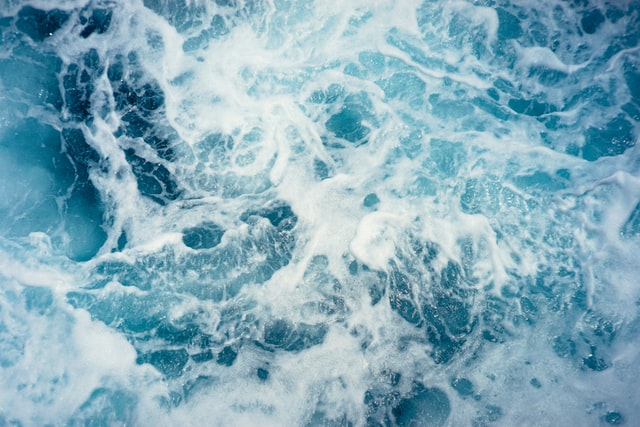
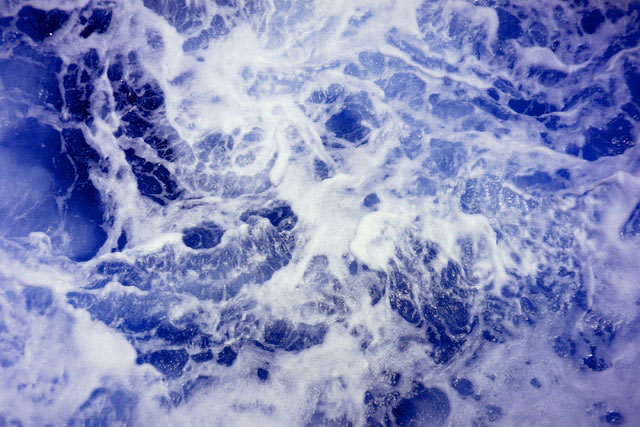
Repainted theme

diff --git a/index.css b/index.css
@@ -1,8 +1,8 @@
 :root {
  --main-color: blue;
  --main-color-yell: #f8c008;
- --main-color-prpl: #ca70d8;
- --main-color-light-prpl: #FDF2FF;
+ --main-color-prpl: rgb(102 86 219);
+ --main-color-light-prpl: #f8f2ff;
 
  --main-text-color: #000;
  --main-text-gray: #e3e3e3;
@@ -23,6 +23,8 @@
  --shadow-main: rgba(0, 0, 0, 0.06) 0px 2px 7px;
  --shadow-main_2:   rgba(0, 0, 0, 0.10) 0px 4px 8px;
  --shadow-main_3:   rgba(0, 0, 0, 0.12) 0px 8px 10px;
+
+ --main-gradient_1: linear-gradient( 100deg,  rgba(116,18,203,1) 11.2%, rgba(230,46,131,1) 91.2% );
 }
 
 body,
@@ -231,7 +233,7 @@ ul.sc_icons {
 /* Header block styles */
 
 .main-header {
- background-color: var(--main-color-prpl);
+ background: var(--main-gradient_1);
 }
 
 .hd-blocks {
@@ -289,7 +291,6 @@ ul.sc_icons {
  display: flex;
  align-items: center;
  justify-content: center;
- background-color: rgba(255, 255, 255, 0.144);
 }
 
 .hd-image img {
@@ -348,7 +349,7 @@ ul.sc_icons {
 }
 
 .vb_player .filter {
- opacity: 0.75;
+ opacity: 0.45;
  transition: var(--main-anim);
  background-color: var(--main-color-prpl);
 }
@@ -393,7 +394,7 @@ ul.sc_icons {
 }
 
 .vb_player:hover .filter {
- opacity: 0.65;
+ opacity: 0.55;
 }
 
 .vb_player:hover .play {
@@ -474,7 +475,7 @@ ul.sc_icons {
  left: 0;
  width: 100%;
  height: 4px;
- background-color: var(--main-color-prpl);
+ background: var(--main-gradient_1);
 }
 
 .def-clickable dt.opened + dd {
@@ -764,8 +765,8 @@ ul.sc_icons {
 }
 
 .rb_block .photo {
- height: 70px;
- width: 70px;
+ height: 60px;
+ width: 60px;
  overflow: hidden;
  border-radius: var(--max-br-radius);
  background-color: rgb(236, 230, 230);
@@ -773,8 +774,8 @@ ul.sc_icons {
 }
 
 .rb_block .photo img {
- width: 70px;
- height: 70px;
+ width: 60px;
+ height: 60px;
  object-fit: cover;
 }
 
